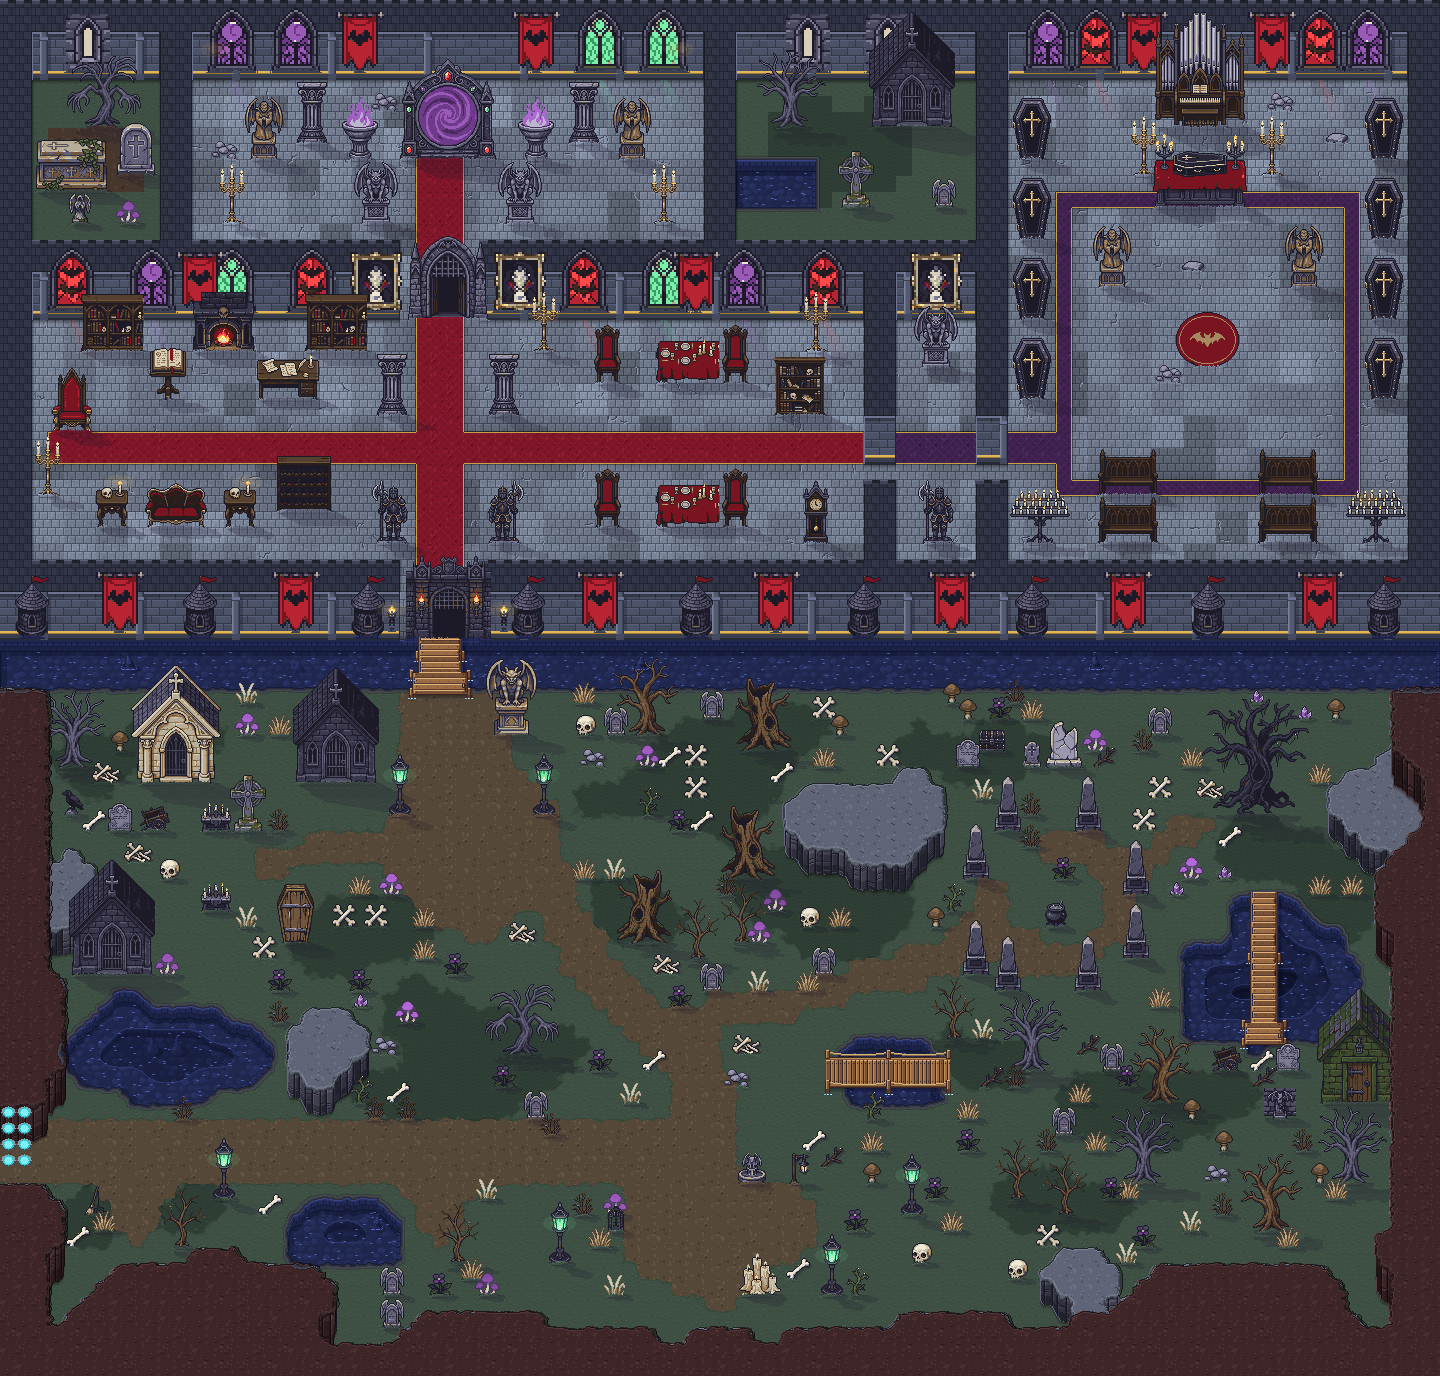
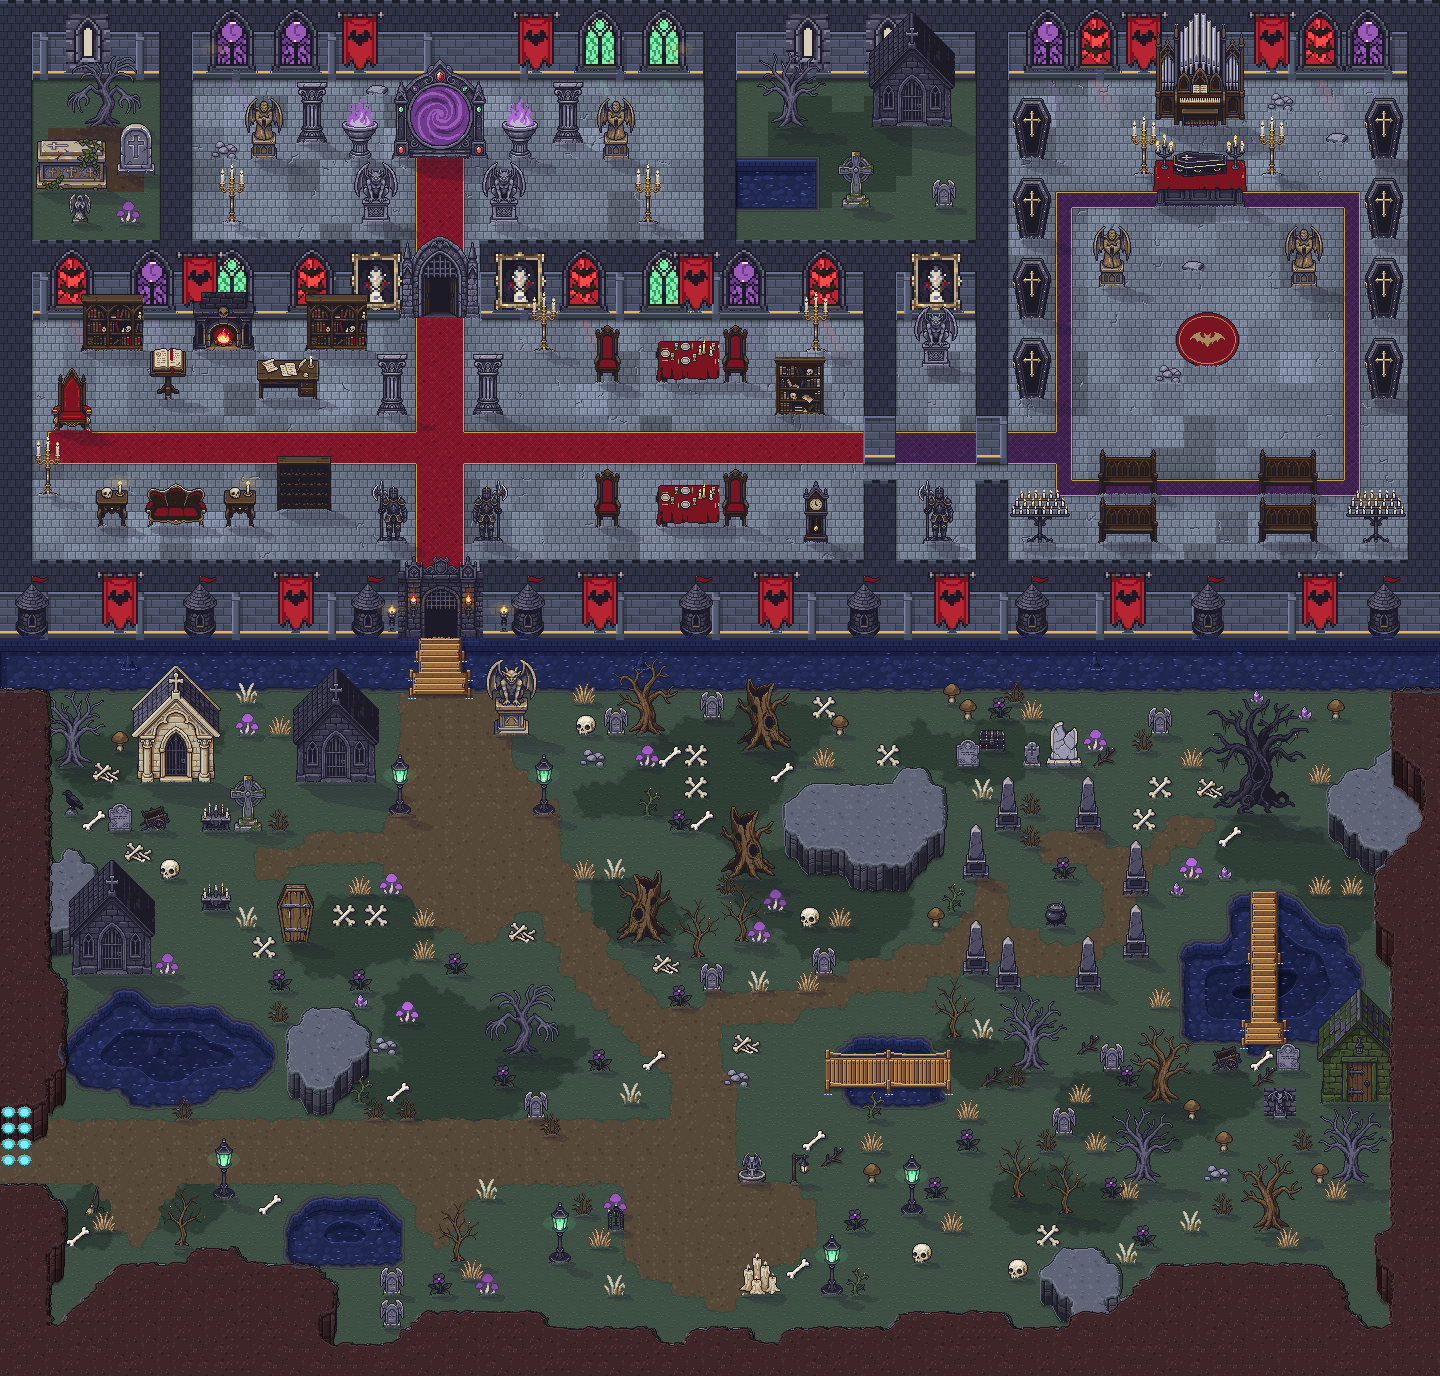
Karte 09: Tore und Portal exakt mittig auf der Teppichachse, Symmetrieachse korrigiert
Claude-Session: https://claude.ai/code/session_01SaoYHKhnro4LFcPJqjaPsq

Changed region(s): [[0.25, 0.0312, 0.4688, 0.3125], [0.25, 0.3438, 0.375, 0.4688]]

diff --git a/tools/karte09_objekte.py b/tools/karte09_objekte.py
@@ -20,7 +20,7 @@ KARTE = os.path.join(ROOT, 'maps', 'karte09')
 OBJ = os.path.join(ROOT, 'assets', 'objekte', 'karte09')
 OBJ8 = os.path.join(ROOT, 'assets', 'objekte', 'karte08')
 T = 16
-ACHSE_B = 27 * T + 8 + 8          # Teppichachse Portalhalle / grosser Saal (Teppich x 26-28)
+ACHSE_B = 27 * T + 8              # Teppichachse Portalhalle / grosser Saal (Teppich x 26-28 -> Mitte 440 px)
 ACHSE_D = 75 * T + 8              # Ritualsaal (Rahmen x 66-84)
 
 # Wandobjekte: (sprite, Kachel-x Mitte, Reihe der Mauer-Oberkante der Wandflaeche)
@@ -40,7 +40,7 @@ WAND += [('wand/04', x, 35) for x in (24, 31)]
 # (sprite, Kachel-x, Fusskachel-y, Optionen)
 FEST = [
     # ---- Portalhalle: Portal in der Achse, je Seite Statue, Saeule, Feuerschale, Gargoyle, Kandelaber (symmetrisch)
-    ('gross/02', 27.5, 9, {'symm': None}),
+    ('gross/02', 27, 9, {'symm': None, 'achse': True}),
     ('einrichtung/13', 16, 9, {'symm': 'statue'}), ('einrichtung/13', 39, 9, {'symm': 'statue', 'spiegeln': True}),
     ('moebel/00', 19, 8, {'symm': 'saeule1'}), ('moebel/00', 36, 8, {'symm': 'saeule1'}),
     ('moebel/06', 22, 9, {'symm': 'schale', 'anim': 'glimmen'}), ('moebel/06', 33, 9, {'symm': 'schale', 'anim': 'glimmen'}),
@@ -283,8 +283,11 @@ def main():
                         **({'anim': 'kerzen'} if name == 'wand/04' else {})})
     # Tuerme auf der Aussenmauer und Tore (stehen auf/vor der Mauer, eigene Platzierung)
     for (name, tx, fuss_px) in [('einrichtung/05', x, 39 * T + 13) for x in (1.5, 12, 22.5, 32.5, 43, 53.5, 64, 75, 86)] + \
-                               [('tor/01', 27.5, 39 * T + 15), ('tor/00', 27.5, 19 * T + 15)]:
+                               [('tor/01', 27, 39 * T + 15), ('tor/00', 27, 19 * T + 15)]:
         datei, h, zu, mitte = sprite(name, False)
+        if name.startswith('tor/'):
+            xs_ = np.nonzero(alpha[datei].any(axis=0))[0]
+            mitte = (xs_.min() + xs_.max() + 1) / 2.0             # Tor genau mittig auf der Teppichachse
         x, y = int(round(tx * T + T / 2 - mitte)), fuss_px - zu
         objekte.append({'datei': datei, 'basis': name, 'x': x, 'y': y, 'fuss': h, 'kachel': [int(tx), fuss_px // T],
                         'ebene': 1, 'an_wand': True, 'kein_schatten': True, 'keine_verdeckung': True,
@@ -336,9 +339,14 @@ def main():
 
 
 def symmetrie():
-    """Paare exakt spiegelsymmetrisch zur Achse ihres Saals."""
+    """Paare exakt spiegelsymmetrisch zur Achse ihres Saals; Objekte mit 'achse' genau auf die Achse."""
     pf = os.path.join(OBJ, 'platzierung.json')
     objs = json.load(open(pf))
+    for o in objs:
+        if o.get('achse'):
+            a_ = np.array(Image.open(os.path.join(OBJ, o['datei'])).getchannel('A')) > 128
+            xs_ = np.nonzero(a_.any(axis=0))[0]
+            o['x'] = int(round(ACHSE_B - (xs_.min() + xs_.max() + 1) / 2.0))
     paare = {}
     for o in objs:
         if o.get('symm'):
